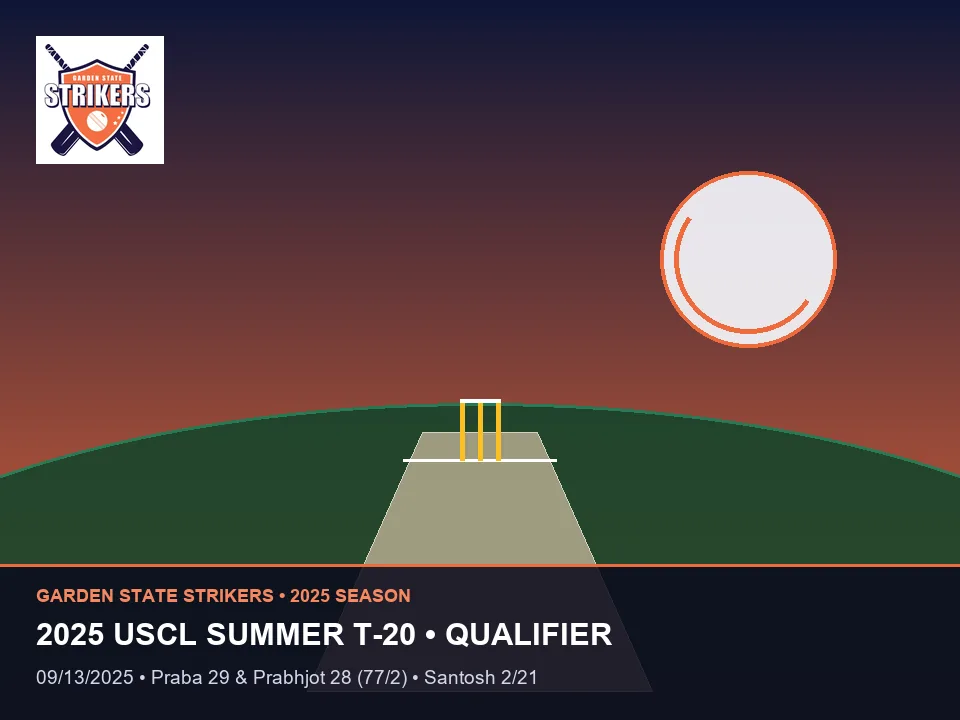
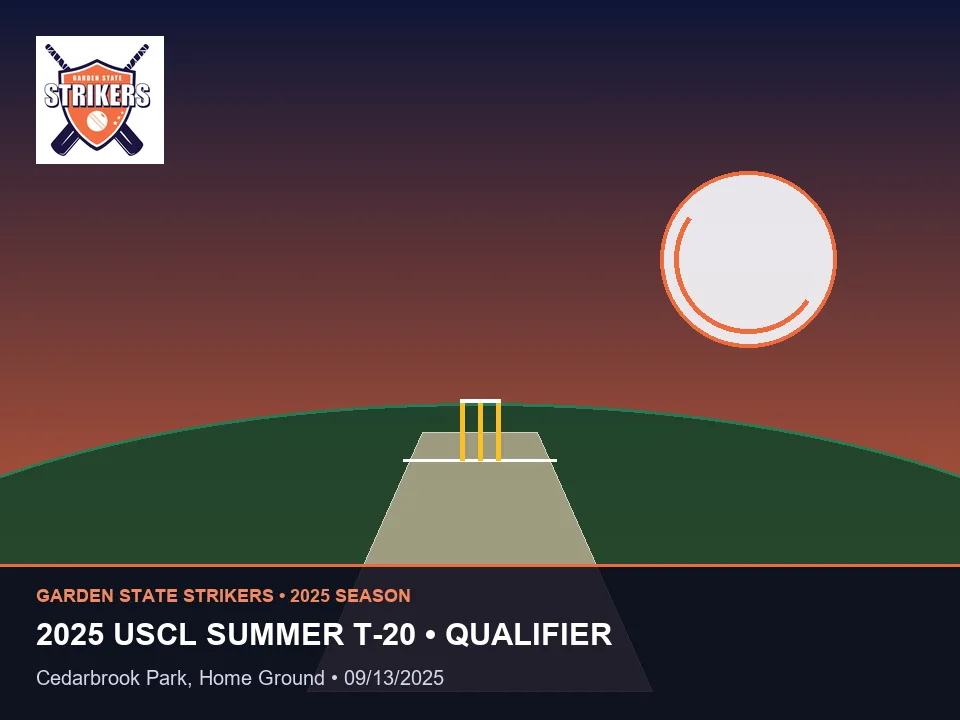
fix: update Gallery ground locations and regenerate match recap WebP graphics

Changed region(s): [[0.0312, 0.9167, 0.5625, 0.9472]]

diff --git a/sw.js b/sw.js
@@ -6,7 +6,7 @@
  * 3. Headless JSON Data (data/*.json): Stale-While-Revalidate for instant field rendering + silent background refresh
  */
 
-const CACHE_VERSION = 'gss-v2.4.1';
+const CACHE_VERSION = 'gss-v2.5.0';
 const SHELL_CACHE = `${CACHE_VERSION}-shell`;
 const STATIC_CACHE = `${CACHE_VERSION}-static`;
 const DATA_CACHE = `${CACHE_VERSION}-data`;

diff --git a/README.md b/README.md
@@ -1,10 +1,10 @@
 <div align="center">
   <img src="./images/gss-logo.jpg" alt="Garden State Strikers Crest" width="160" />
 
-  # Garden State Strikers
-  **Cricket Team based out of New Jersey**
+  # Garden State Strikers Cricket Club
+  **New Jersey Leather-Ball T20 Cricket • Est. 2020**
 
-  [**🌐 Visit Digital Clubhouse**](https://gardenstatestrikers.org) · [**📧 info@gardenstatestrikers.org**](mailto:info@gardenstatestrikers.org)
+  [**🌐 Visit Digital Clubhouse**](https://asidaganahalli.github.io/garden-state-strikers/) · [**📧 info@gardenstatestrikers.org**](mailto:info@gardenstatestrikers.org)
 </div>
 
 ---
@@ -13,7 +13,7 @@
 
 While our roots began in the summer of 2020 as a father-and-son session on a playground pitch in New Providence, New Jersey, today **Garden State Strikers (GSS)** is a tight-knit, closed brotherhood of passionate cricketers across New Jersey who come together every weekend for three to four hours of high-energy, spirited cricket.
 
-The moment we step onto the field, job titles, backgrounds, and everyday distractions stay at the boundary line **we play strictly as one team**. Respecting teammates, honoring the spirit of the game, and genuinely celebrating each other’s success always come first. We believe that when camaraderie and grit lead the way, winning naturally follows.
+The moment we step onto the field, job titles, backgrounds, and everyday distractions stay at the boundary line—**we play strictly as one team**. Respecting teammates, honoring the spirit of the game, and genuinely celebrating each other’s success always come first. We believe that when camaraderie and grit lead the way, winning naturally follows.
 
 ---
 
